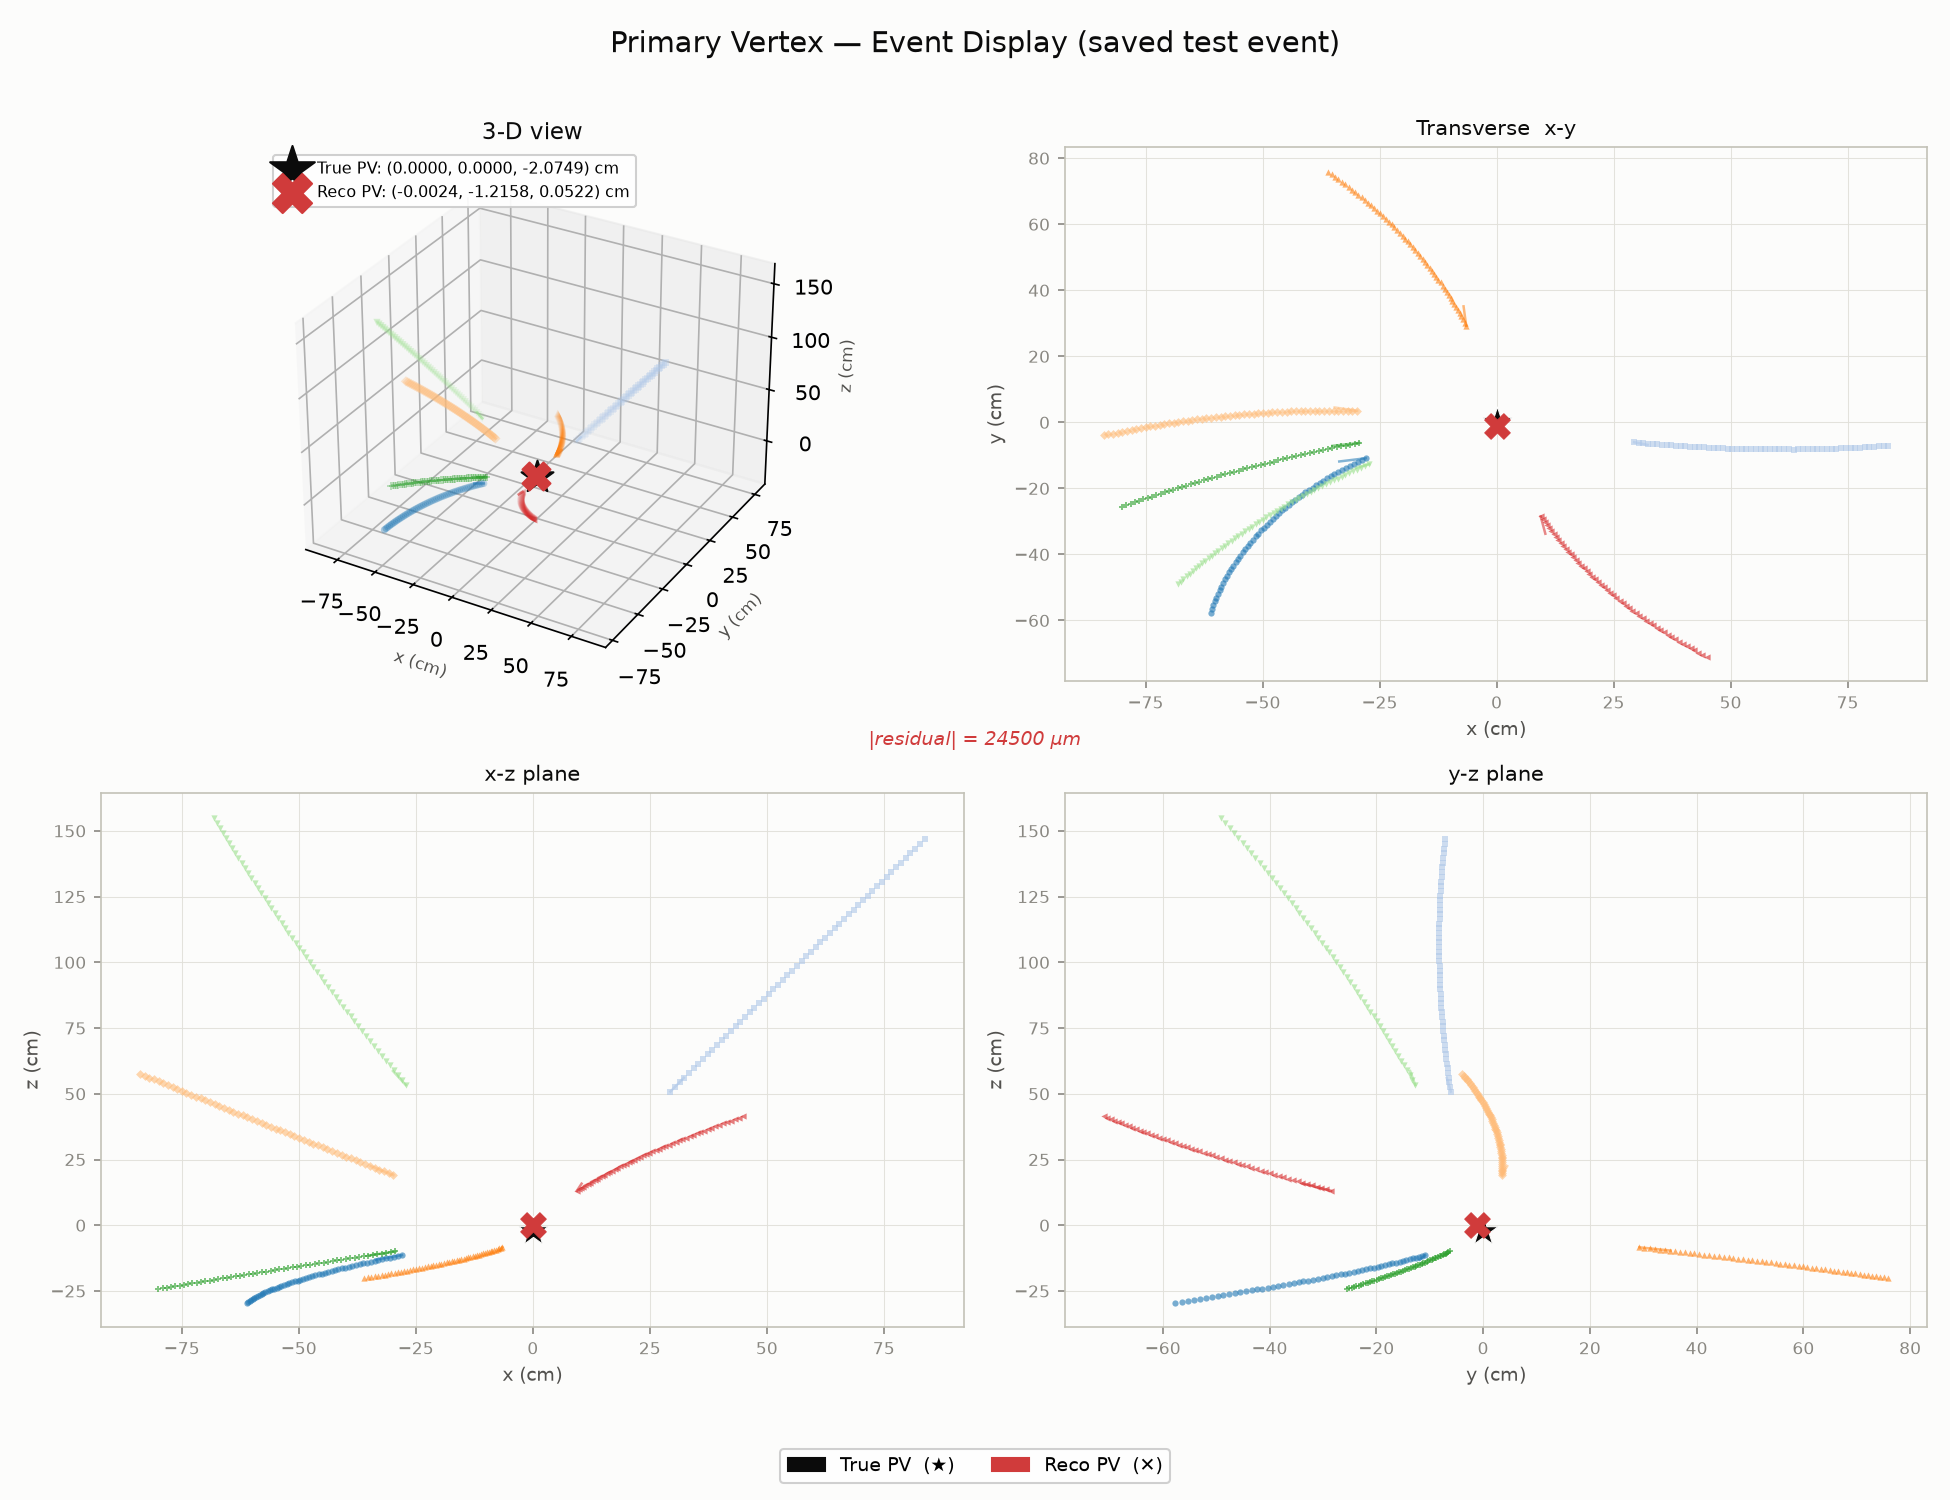
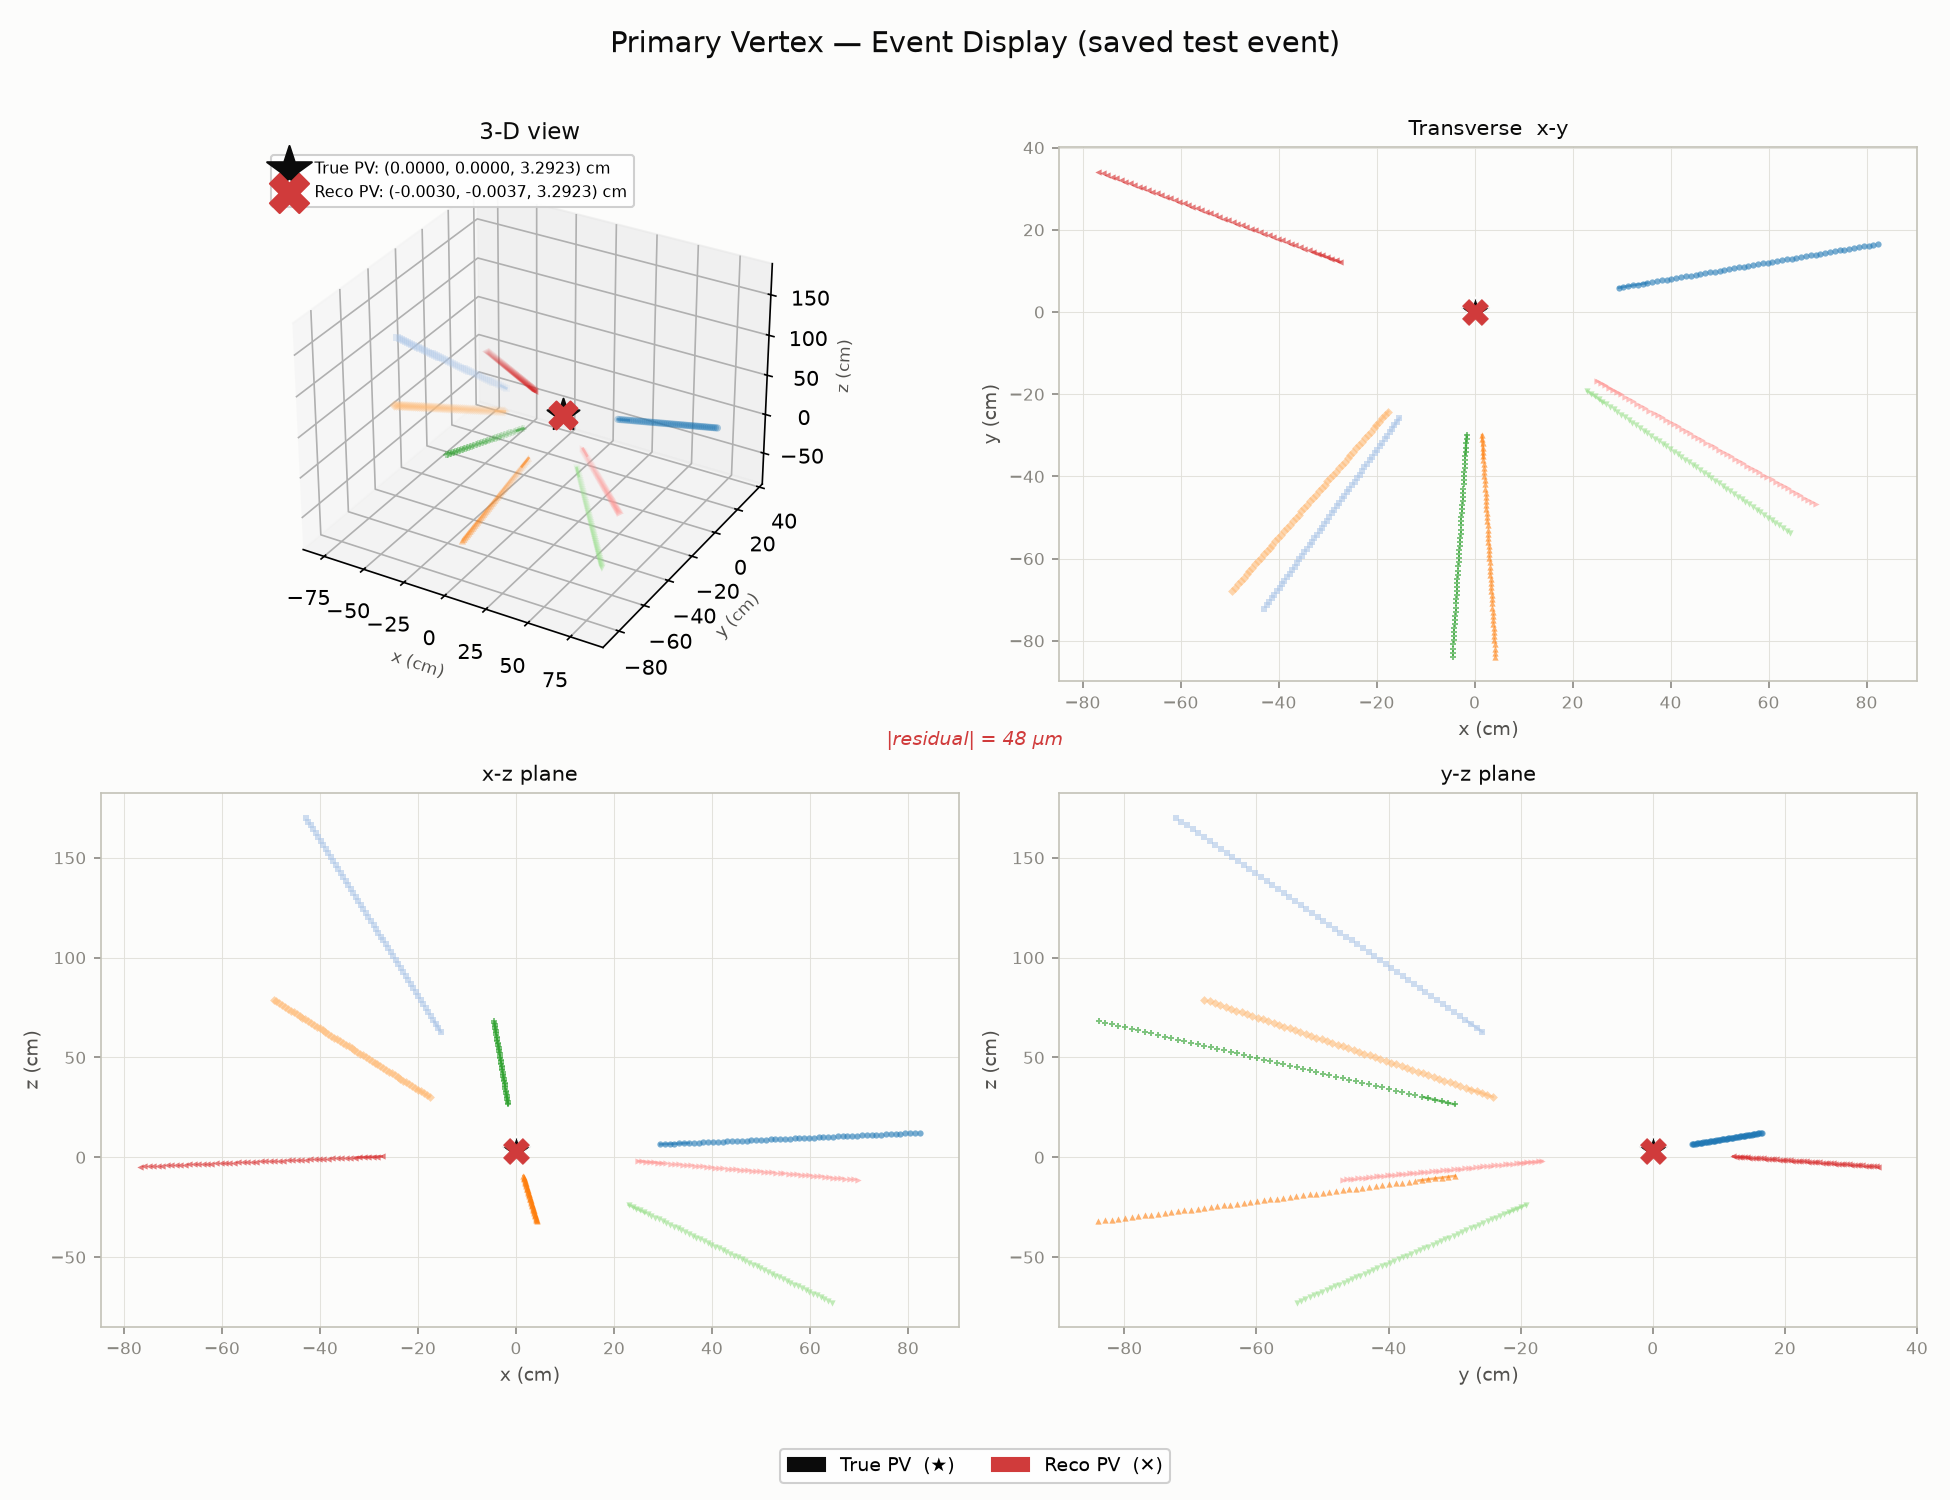
Clean up

diff --git a/train/downstream/plot_vertex.py b/train/downstream/plot_vertex.py
@@ -344,6 +344,7 @@ def plot_event_display(event, result, vtx_true, save_path):
     # Use the ORIGINAL truth direction saved by test_vertex_simple.py,
     # not VertexHead's reconstructed direction.
     track_dir = event["direction"].numpy()
+    #track_dir = result["vertex_direction"][0].numpy()
 
     # VertexHead's fitted reference positions are still useful for displaying
     # where its track references are located.

diff --git a/train/downstream/test_vertex_simple.py b/train/downstream/test_vertex_simple.py
@@ -117,7 +117,7 @@ def helix_position_at_radius(vertex, p_T, theta, phi, charge, B_z, R_target):
     y = vy - rho * (math.cos(phi + alpha) - math.cos(phi))
     
     # Arc length along the trajectory.
-    s = rho * abs(alpha) 
+    s = rho * abs(alpha) # s = rho * |alpha| / sin(theta)
 
     # z advances linearly along the helix.
     z = vz + s * math.cos(theta)
